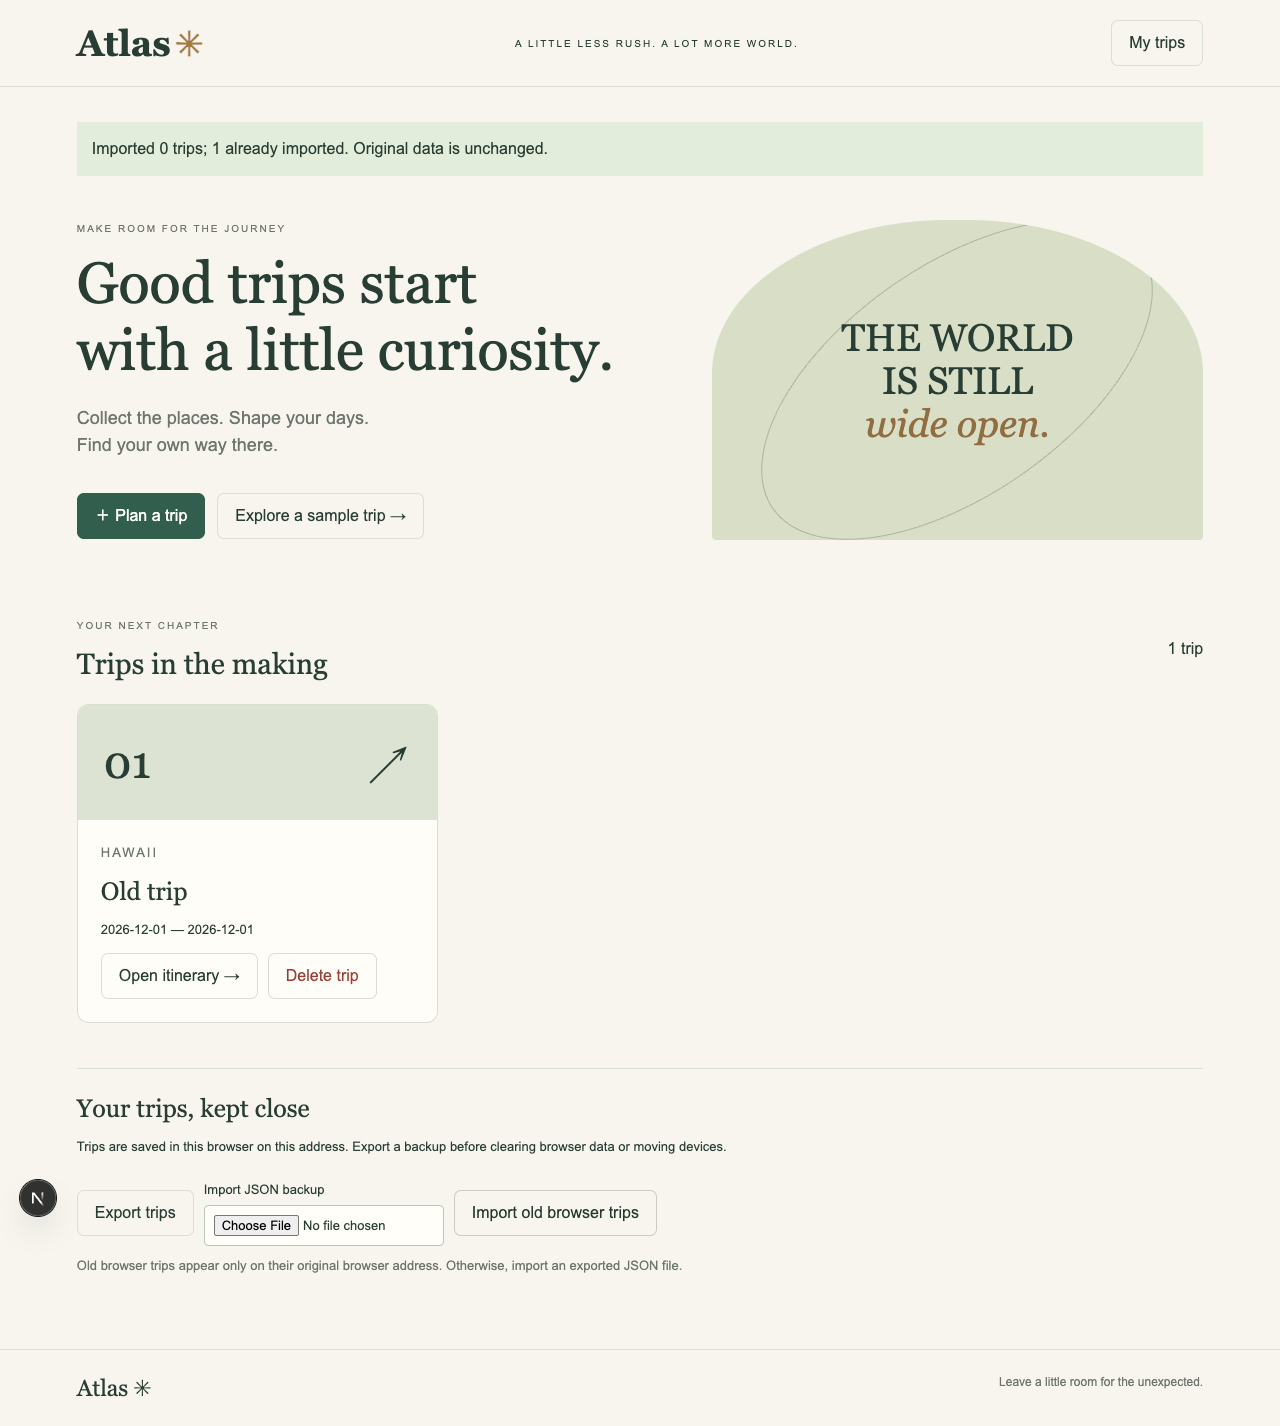
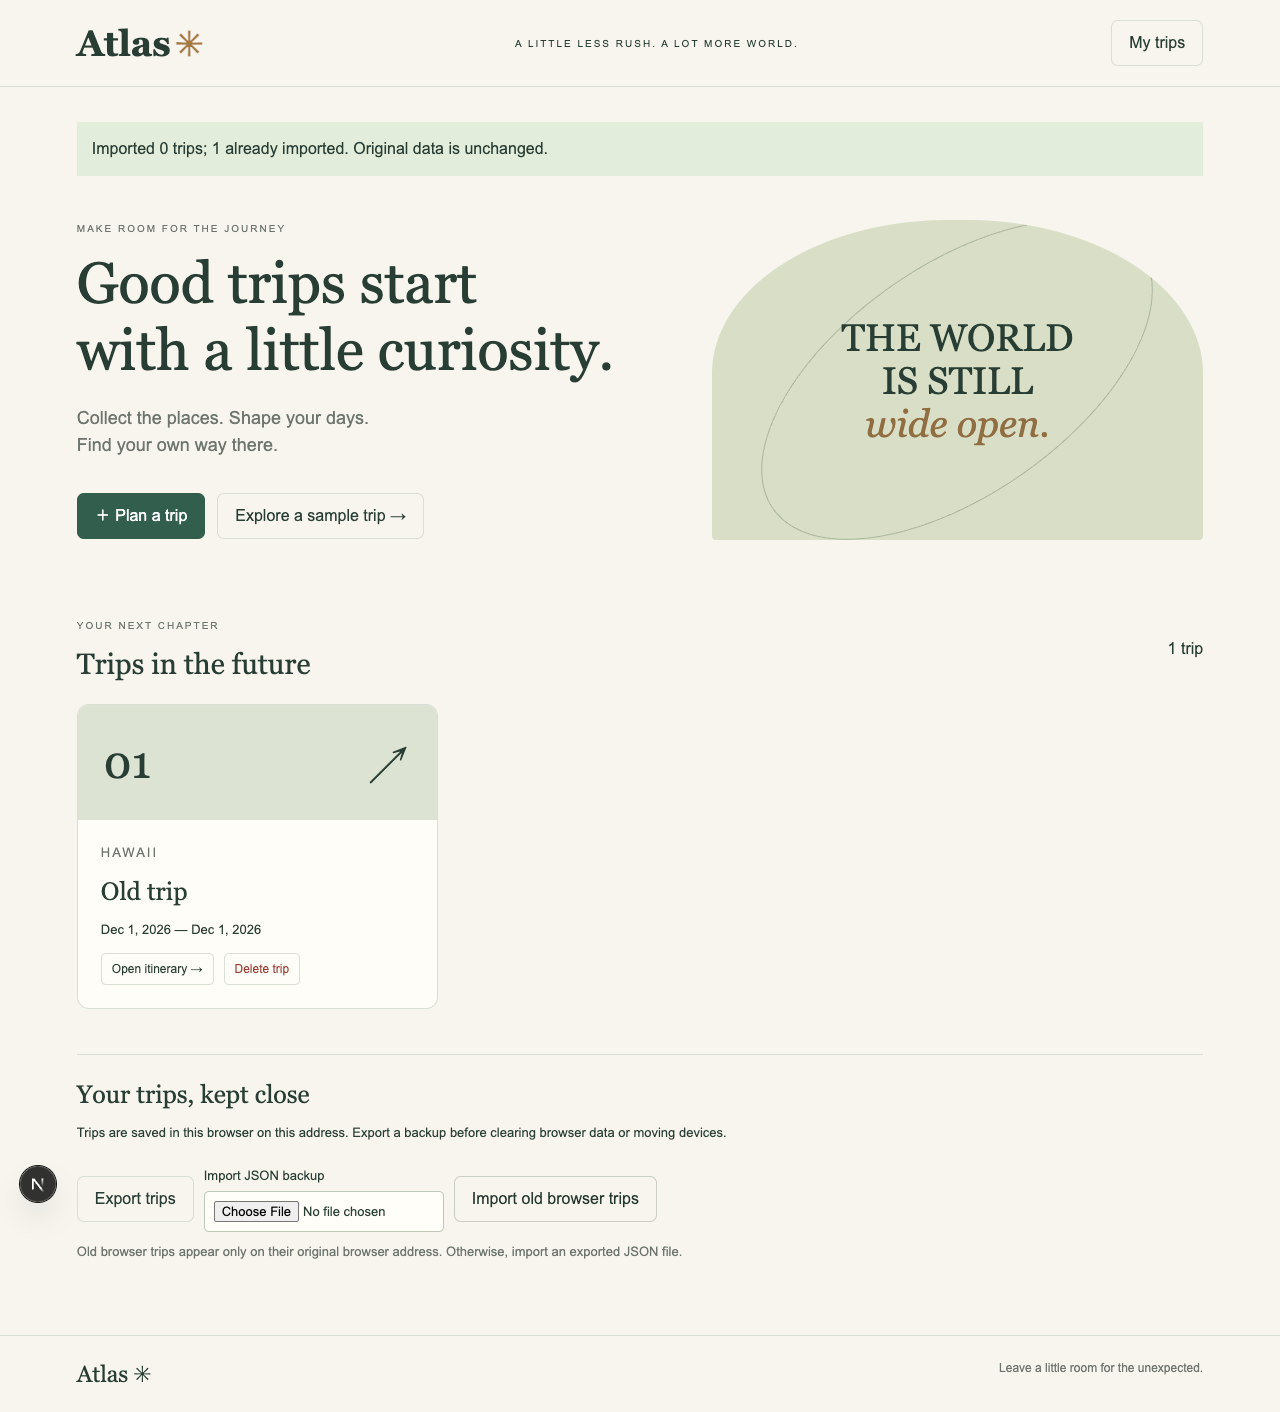
Keep sample itineraries unsaved until added and refine trip display

diff --git a/frontend/app/page.tsx b/frontend/app/page.tsx
@@ -16,9 +16,18 @@ const TripMap = dynamic(() => import('../components/TripMap'), {
 });
 type Editor = { kind: 'trip'; trip?: Trip } | { kind: 'place'; place?: Place };
 const LOCAL_TRIPS_KEY = 'atlas.trips.v1';
+function displayDate(date: string, includeYear = false) {
+  return new Intl.DateTimeFormat('en-US', {
+    month: 'short',
+    day: 'numeric',
+    ...(includeYear ? { year: 'numeric' as const } : {}),
+    timeZone: 'UTC',
+  }).format(new Date(`${date}T00:00:00Z`));
+}
 
 export default function Home() {
   const [trips, setTrips] = useState<Trip[]>([]);
+  const [sampleTrip, setSampleTrip] = useState<Trip | null>(null);
   const [tripId, setTripId] = useState<string | null>(null);
   const [date, setDate] = useState('');
   const [selectedId, setSelectedId] = useState<string | null>(null);
@@ -31,7 +40,8 @@ export default function Home() {
   const [hasLocalTrips, setHasLocalTrips] = useState(false);
   // Invalidating the generation prevents a late route response from painting another day.
   const routeGeneration = useRef(0);
-  const trip = trips.find((item) => item.id === tripId);
+  const isSample = sampleTrip !== null && sampleTrip.id === tripId;
+  const trip = isSample ? sampleTrip : trips.find((item) => item.id === tripId);
   const day = trip?.days.find((item) => item.date === date);
   const selectPlace = useCallback((id: string) => setSelectedId(id), []);
 
@@ -70,6 +80,12 @@ export default function Home() {
 
   /** Updates appear only after browser storage confirms the save. */
   async function saveTrip(next: Trip) {
+    if (isSample) {
+      const updated = { ...next, revision: next.revision + 1 };
+      setSampleTrip(updated);
+      clearRoute();
+      return updated;
+    }
     const saved = await api<Trip>(`/trips/${next.id}`, 'PUT', next);
     setTrips((current) => current.map((item) => (item.id === saved.id ? saved : item)));
     clearRoute();
@@ -256,7 +272,9 @@ export default function Home() {
                   disabled={busy}
                   onClick={() =>
                     void run(async () => {
-                      const sample = await api<Trip>('/trips', 'POST', {
+                      const sample: Trip = {
+                        id: crypto.randomUUID(),
+                        revision: 1,
                         name: 'A little aloha',
                         destination: 'Oʻahu, Hawaii',
                         startDate: '2026-11-14',
@@ -290,8 +308,8 @@ export default function Home() {
                                 : [],
                           }),
                         ),
-                      });
-                      setTrips((current) => [sample, ...current]);
+                      };
+                      setSampleTrip(sample);
                       openTrip(sample);
                     })
                   }
@@ -313,7 +331,7 @@ export default function Home() {
             <section className="section-heading">
               <div>
                 <p className="eyebrow">YOUR NEXT CHAPTER</p>
-                <h2>Trips in the making</h2>
+                <h2>Trips in the future</h2>
               </div>
               <span>
                 {trips.length} {trips.length === 1 ? 'trip' : 'trips'}
@@ -330,7 +348,8 @@ export default function Home() {
                     <p className="eyebrow">{item.destination}</p>
                     <h3>{item.name}</h3>
                     <p>
-                      {item.startDate} — {item.endDate}
+                      {displayDate(item.startDate, true)} —{' '}
+                      {displayDate(item.endDate, true)}
                     </p>
                     <div className="actions">
                       <button className="secondary" onClick={() => openTrip(item)}>
@@ -422,7 +441,8 @@ export default function Home() {
                 <p className="eyebrow">{trip.destination}</p>
                 <h1>{trip.name}</h1>
                 <p>
-                  {trip.startDate} — {trip.endDate} · {trip.days.length} days
+                  {displayDate(trip.startDate, true)} — {displayDate(trip.endDate, true)}{' '}
+                  · {trip.days.length} days
                 </p>
               </div>
               <div className="actions">
@@ -433,15 +453,37 @@ export default function Home() {
                 >
                   Edit trip
                 </button>
-                <button
-                  className="danger"
-                  disabled={busy}
-                  onClick={() => deleteTrip(trip)}
-                >
-                  Delete trip
-                </button>
+                {isSample ? (
+                  <button
+                    disabled={busy}
+                    onClick={() =>
+                      void run(async () => {
+                        const saved = await api<Trip>('/trips', 'POST', trip);
+                        setTrips((current) => [saved, ...current]);
+                        setSampleTrip(null);
+                        openTrip(saved);
+                      })
+                    }
+                  >
+                    Add to my trips
+                  </button>
+                ) : (
+                  <button
+                    className="danger"
+                    disabled={busy}
+                    onClick={() => deleteTrip(trip)}
+                  >
+                    Delete trip
+                  </button>
+                )}
               </div>
             </div>
+            {isSample && (
+              <p className="muted">
+                Explore and edit this sample freely. Choose “Add to my trips” to keep it
+                in Trips in the future.
+              </p>
+            )}
             <nav className="days" aria-label="Itinerary days">
               {trip.days.map((item, index) => (
                 <button
@@ -454,7 +496,7 @@ export default function Home() {
                   }}
                 >
                   <small>DAY {index + 1}</small>
-                  {item.date.slice(5)}
+                  {displayDate(item.date)}
                 </button>
               ))}
             </nav>

diff --git a/tests/planner.spec.ts b/tests/planner.spec.ts
@@ -63,13 +63,13 @@ test('create, edit, reorder, day navigation, persistence, mobile, and delete', a
   await page.locator('.stops li').first().getByRole('button', { name: 'Remove' }).click();
   await expect(page.locator('.stops li')).toHaveCount(1);
   await page.getByRole('button', { name: 'Delete trip', exact: true }).click();
-  await expect(page.getByRole('heading', { name: 'Trips in the making' })).toBeVisible();
+  await expect(page.getByRole('heading', { name: 'Trips in the future' })).toBeVisible();
   expect(errors).toEqual([]);
 });
 
 test('invalid import leaves existing trips untouched', async ({ page }) => {
   await createTrip(page);
-  await page.getByRole('button', { name: 'My trips' }).click();
+  await page.getByRole('button', { name: 'My trips', exact: true }).click();
   await page.getByLabel('Import JSON backup').setInputFiles({
     name: 'bad.json',
     mimeType: 'application/json',
@@ -108,6 +108,7 @@ test('sample trip is usable and failed storage saves retain form input', async (
 }) => {
   await page.goto('/');
   await page.getByRole('button', { name: 'Explore a sample trip' }).click();
+  await page.getByRole('button', { name: 'Add to my trips' }).click();
   await expect(page.getByRole('heading', { name: 'A little aloha' })).toBeVisible();
   await expect(page.locator('.map-pin')).toHaveCount(2);
   await page.getByRole('button', { name: 'Edit trip', exact: true }).click();
@@ -128,9 +129,10 @@ test('dashboard delete can be canceled and persists without removing other trips
   page,
 }) => {
   await createTrip(page);
-  await page.getByRole('button', { name: 'My trips' }).click();
+  await page.getByRole('button', { name: 'My trips', exact: true }).click();
   await page.getByRole('button', { name: 'Explore a sample trip' }).click();
-  await page.getByRole('button', { name: 'My trips' }).click();
+  await page.getByRole('button', { name: 'Add to my trips' }).click();
+  await page.getByRole('button', { name: 'My trips', exact: true }).click();
   const remove = page.getByRole('button', {
     name: 'Delete Pittsburgh weekend',
     exact: true,
@@ -144,4 +146,25 @@ test('dashboard delete can be canceled and persists without removing other trips
   await page.reload();
   await expect(page.locator('.trip-card')).toHaveCount(1);
   await expect(page.getByRole('heading', { name: 'A little aloha' })).toBeVisible();
+});
+
+test('sample stays unsaved until explicitly added and displays readable dates', async ({
+  page,
+}) => {
+  await page.goto('/');
+  await page.getByRole('button', { name: 'Explore a sample trip' }).click();
+  await expect(page.getByRole('button', { name: 'DAY 1 Nov 14' })).toBeVisible();
+  await page.getByRole('button', { name: 'My trips', exact: true }).click();
+  await expect(page.locator('.trip-card')).toHaveCount(0);
+  await page.reload();
+  await expect(page.locator('.trip-card')).toHaveCount(0);
+  await page.getByRole('button', { name: 'Explore a sample trip' }).click();
+  await page.getByRole('button', { name: 'Edit trip', exact: true }).click();
+  await page.getByLabel('Trip name', { exact: true }).fill('My Hawaii plans');
+  await page.getByRole('button', { name: 'Save', exact: true }).click();
+  await page.getByRole('button', { name: 'Add to my trips' }).click();
+  await expect(page.getByRole('button', { name: 'Add to my trips' })).toHaveCount(0);
+  await page.reload();
+  await expect(page.locator('.trip-card')).toHaveCount(1);
+  await expect(page.getByRole('heading', { name: 'My Hawaii plans' })).toBeVisible();
 });

diff --git a/frontend/app/globals.css b/frontend/app/globals.css
@@ -499,3 +499,9 @@ footer span {
     margin-left: 0;
   }
 }
+
+.trip-card .actions button {
+  padding: 6px 10px;
+  font-size: 12px;
+  border-radius: 5px;
+}

diff --git a/README.md b/README.md
@@ -15,7 +15,7 @@ Open **http://localhost:3000**. Keep the terminal running; Ctrl+C stops both ser
 
 ## Review the frontend
 
-- Choose **Explore a sample trip** for a three-day Hawaii itinerary with two mapped stops, or **Plan a trip** to start your own.
+- Choose **Explore a sample trip** to explore an unsaved three-day Hawaii itinerary with two mapped stops. Choose **Add to my trips** to keep it, or **Plan a trip** to start your own.
 - Open a trip, choose a day, and add places with names, categories, notes, and optional coordinates.
 - Edit, reorder, select, or remove stops. Coordinates are required for map markers; addresses are not automatically geocoded.
 - Return to **My trips** to switch trips. Changes survive refresh in the same browser.
